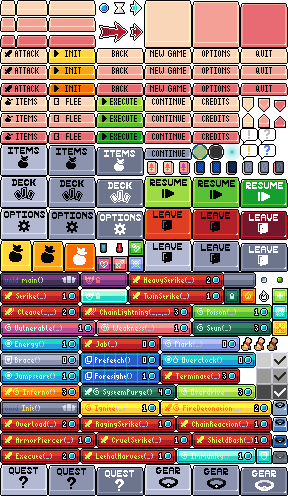
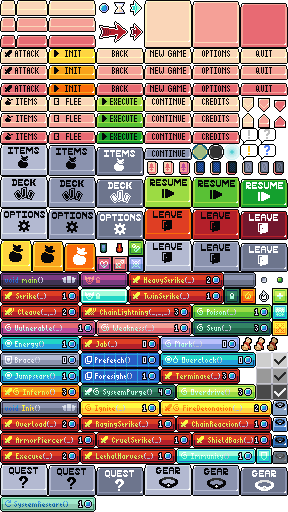
[Feat]: Add system restart card to clear current debuffs

diff --git a/demo/UtilityCards.h b/demo/UtilityCards.h
@@ -1,4 +1,4 @@
-#pragma once
+#pragma once
 #include "IStatementCard.h"
 #include "MultiTargetCard.h"
 
@@ -137,6 +137,27 @@ namespace Demo {
 		size_t GetCost() const override { return 1; }
 		std::wstring GetDescription() const override { return L"Draw 1 extra card next turn."; }
 		RECT GetFaceRect() const override { return RECT{ 80, 368, 160, 384 }; }
+
+		bool Execute() override;
+		void ResetExecution() override;
+		void DrawCardFace(unsigned long long deltaTime) override;
+	};
+
+	// A legendary utility card that clears all debuffs from the player.
+	// Costs 1 energy, max 1 use per battle, non-persistent.
+	class SystemRestartCard : public IStatementCard {
+	private:
+		bool isDone = false;
+	public:
+		SystemRestartCard(std::weak_ptr<DX9GF::TransformManager> tm, float x = 0, float y = 0)
+			: IGameObject(tm, x, y), IStatementCard(tm, 192, 32, x, y) {
+			SetPersistent(false);
+			SetMaxUses(1);
+		}
+
+		size_t GetCost() const override { return 1; }
+		std::wstring GetDescription() const override { return L"Clear all debuffs and tick damage from yourself."; }
+		RECT GetFaceRect() const override { return RECT{ 0, 496, 96, 512}; }
 
 		bool Execute() override;
 		void ResetExecution() override;

diff --git a/demo/UtilityCards.cpp b/demo/UtilityCards.cpp
@@ -1,4 +1,4 @@
-#include "pch.h"
+#include "pch.h"
 #include "UtilityCards.h"
 #include "IBattleScene.h"
 #include "VirtualBattleState.h"
@@ -130,5 +130,41 @@ void Demo::ForesightCard::ResetExecution() {
 }
 
 void Demo::ForesightCard::DrawCardFace(unsigned long long deltaTime) {
+	DrawSheetFace(deltaTime, GetFaceRect());
+}
+
+bool Demo::SystemRestartCard::Execute() {
+	if (isDone) return true;
+
+	if (owner) {
+		bool hasDebuff = false;
+		for (const auto& mod : owner->GetModifiers()) {
+			if (!mod.isBuff && mod.duration > 0) {
+				hasDebuff = true;
+				break;
+			}
+		}
+
+		if (hasDebuff) {
+			owner->ClearDebuffs();
+			if (battleScene) {
+				battleScene->QueuePopUpMessage(L"Debuffs Cleared!");
+				DX9GF::AudioManager::GetInstance()->PlayRandom("power_up", 0.6f);
+			}
+		}
+		else if (battleScene) {
+			battleScene->QueuePopUpMessage(L"No debuffs to clear");
+		}
+	}
+
+	isDone = true;
+	return true;
+}
+
+void Demo::SystemRestartCard::ResetExecution() {
+	isDone = false;
+}
+
+void Demo::SystemRestartCard::DrawCardFace(unsigned long long deltaTime) {
 	DrawSheetFace(deltaTime, GetFaceRect());
 }

diff --git a/demo/ICard.cpp b/demo/ICard.cpp
@@ -42,6 +42,7 @@ std::shared_ptr<Demo::ICard> Demo::ICard::CreateCard(const std::string& id, std:
 	else if (id == "ArmorPiercerCard") card = std::make_shared<ArmorPiercerCard>(transformManager);
 	else if (id == "ExecuteCard") card = std::make_shared<ExecuteCard>(transformManager);
 	else if (id == "ImmunityCard") card = std::make_shared<ImmunityCard>(transformManager);
+	else if (id == "SystemRestartCard") card = std::make_shared<SystemRestartCard>(transformManager);
 	if (card && draggableManager && graphicsDevice && camera) {
 		if (auto dragCard = std::dynamic_pointer_cast<IDraggable>(card)) {
 			dragCard->Init(draggableManager, graphicsDevice, camera);

diff --git a/demo/CardShop.cpp b/demo/CardShop.cpp
@@ -83,6 +83,7 @@ void Demo::CardShop::LoadItems()
 		AddShopCard<TerminateCard>("Terminate Card");
 		AddShopCard<OverdriveCard>("Overdrive Card");
 		AddShopCard<SystemPurgeCard>("System Purge Card");
+		AddShopCard<SystemRestartCard>("System Restart Card");
 		// These three only pay off against a built-out block - Overload scales with the
 		// persistent cards installed in it, Chain Reaction with what resolved just before it,
 		// and Execute wants the energy to spend in the first place.

diff --git a/demo/ICombatant.cpp b/demo/ICombatant.cpp
@@ -220,4 +220,12 @@ namespace Demo {
 				[](const CombatModifier& mod) { return mod.isBuff; }),
 			modifiers.end());
 	}
+
+	void Demo::ICombatant::ClearDebuffs() {
+		modifiers.erase(std::remove_if(modifiers.begin(), modifiers.end(),
+			[](const CombatModifier& mod) {
+				return !mod.isBuff;
+			}),
+			modifiers.end());
+	}
 }

diff --git a/demo/CardCatalog.cpp b/demo/CardCatalog.cpp
@@ -44,6 +44,7 @@ namespace Demo::CardCatalog {
 				{ "ExecuteCard",        160 },
 				{ "OverloadCard",       170 },
 				{ "ImmunityCard",		50},
+				{ "SystemRestartCard",	175},
 			};
 			return prices;
 		}

diff --git a/demo/ICombatant.h b/demo/ICombatant.h
@@ -69,5 +69,6 @@ namespace Demo {
 		float ConsumeModifier(ModifierType type);
 		float ConsumeAllArmor();
 		void ClearBuffs();
+		void ClearDebuffs();
 	};
 }
